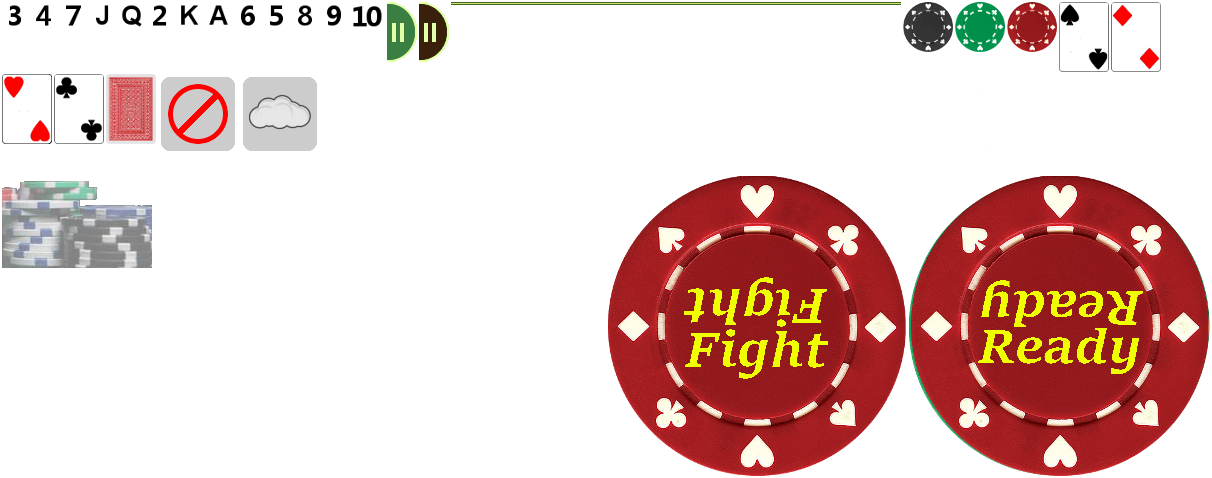
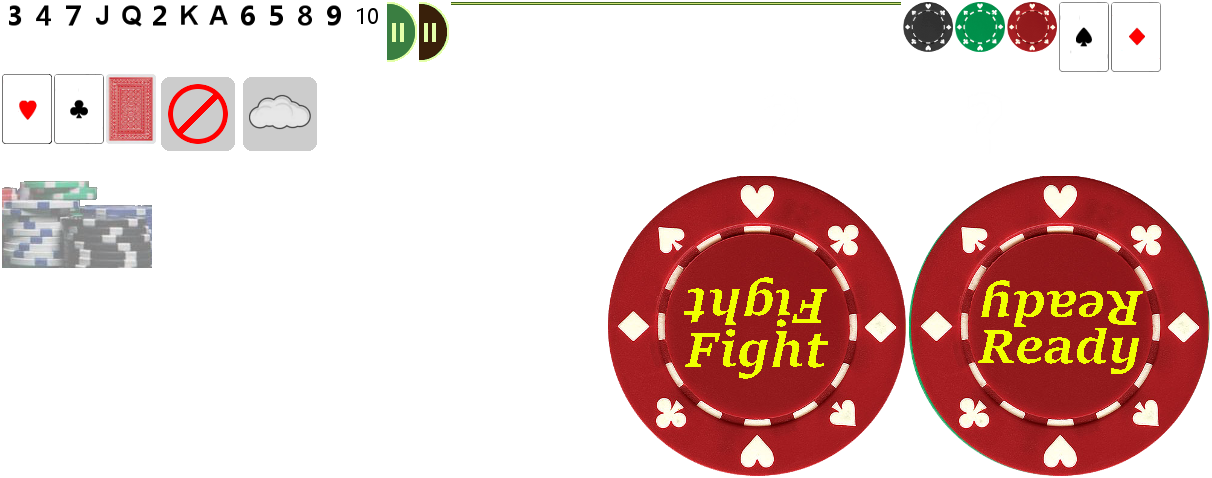
improve multi touch; improve card image

diff --git a/src/app.js b/src/app.js
@@ -190,7 +190,6 @@ var MainLayer = cc.LayerColor.extend({
             onTouchMoved: function (touch, event) {
                 var target = event.getCurrentTarget();
                 var locationInNode = target.convertToNodeSpace(touch.getLocation());
-
                 _.each( target.getChildren(), function(sprite){
                     if ( sprite instanceof PokerCardSprite && !sprite.alreadyTaken ) {
                         var padding = 5;
@@ -199,7 +198,7 @@ var MainLayer = cc.LayerColor.extend({
                         //Check the click area
                         if (cc.rectContainsPoint(rect, locationInNode)){
                             sprite.stopAllActions();
-                            sprite.beHolding = true;
+                            sprite.touchingInstanceId = touch.__instanceId;
                             var delta = touch.getDelta();
                             sprite.x += delta.x;
                             sprite.y += delta.y;
@@ -213,8 +212,8 @@ var MainLayer = cc.LayerColor.extend({
                             } else {
                                 sprite.speedY = delta.y;
                             }
-                        } else if ( sprite.beHolding ) {
-                            sprite.beHolding = false;
+                        } else if ( sprite.touchingInstanceId == touch.__instanceId ) {
+                            sprite.touchingInstanceId = null;
                             sprite.onTouchRelease.call(sprite);
                         }
                     }
@@ -224,14 +223,14 @@ var MainLayer = cc.LayerColor.extend({
             onTouchEnded: function (touch, event) {
                 var target = event.getCurrentTarget();
                 var locationInNode = target.convertToNodeSpace(touch.getLocation());
-
+                var prevLocationInNode = target.convertToNodeSpace(touch.getPreviousLocation());
                 _.each( target.getChildren(), function(sprite){
                     if ( sprite instanceof PokerCardSprite && !sprite.alreadyTaken ) {
                         var rect = cc.rect(sprite.x-sprite.width/2, sprite.y-sprite.height/2, sprite.width,sprite.height);
 
                         //Check the click area
-                        if (cc.rectContainsPoint(rect, locationInNode)){
-                            sprite.beHolding = false;
+                        if ( sprite.touchingInstanceId == touch.__instanceId ){
+                            sprite.touchingInstanceId = null;
                             sprite.onTouchRelease.call(sprite);
                         }
                     }
@@ -525,6 +524,9 @@ var MainLayer = cc.LayerColor.extend({
                 });
                 endX = cc.winSize.width - entry.end.x;
                 endY = cc.winSize.height - entry.end.y;
+            }
+            if ( mirrorSprite.y > cc.winSize.height/2 ) {
+                mirrorSprite.rotation = 180;
             }
 
             this.addChild(mirrorSprite);

diff --git a/src/player.js b/src/player.js
@@ -364,6 +364,9 @@ var PlayerSprite = cc.Sprite.extend({
                 realX = x;
                 realY = y;
             }
+            if ( realY > cc.winSize.height/2 ) {
+                cardAngle += 180;
+            }
             var sprite = this.getParent().getChildByName(cardModel.cid);
             if ( sprite != null ) {
                 if ( sprite.x != x || sprite.y != y) {

diff --git a/src/resource.js b/src/resource.js
@@ -64,7 +64,7 @@ var dimens = {
         height: 70
     },
     card_number_position:{
-        x: 34,
+        x: 14,
         y: 56
     },
     player1Y : 95,
